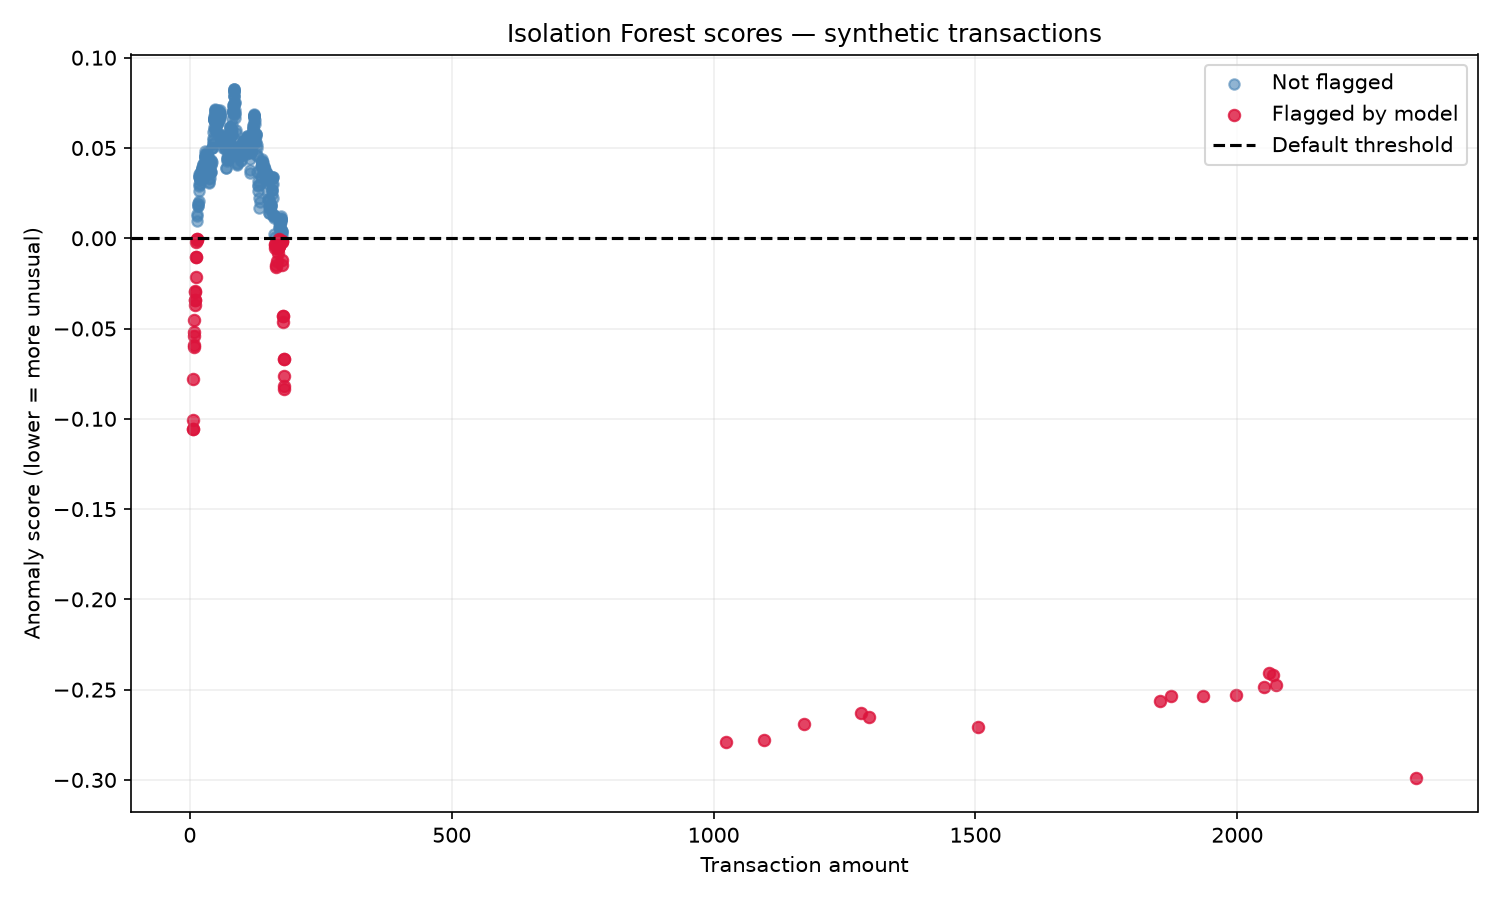
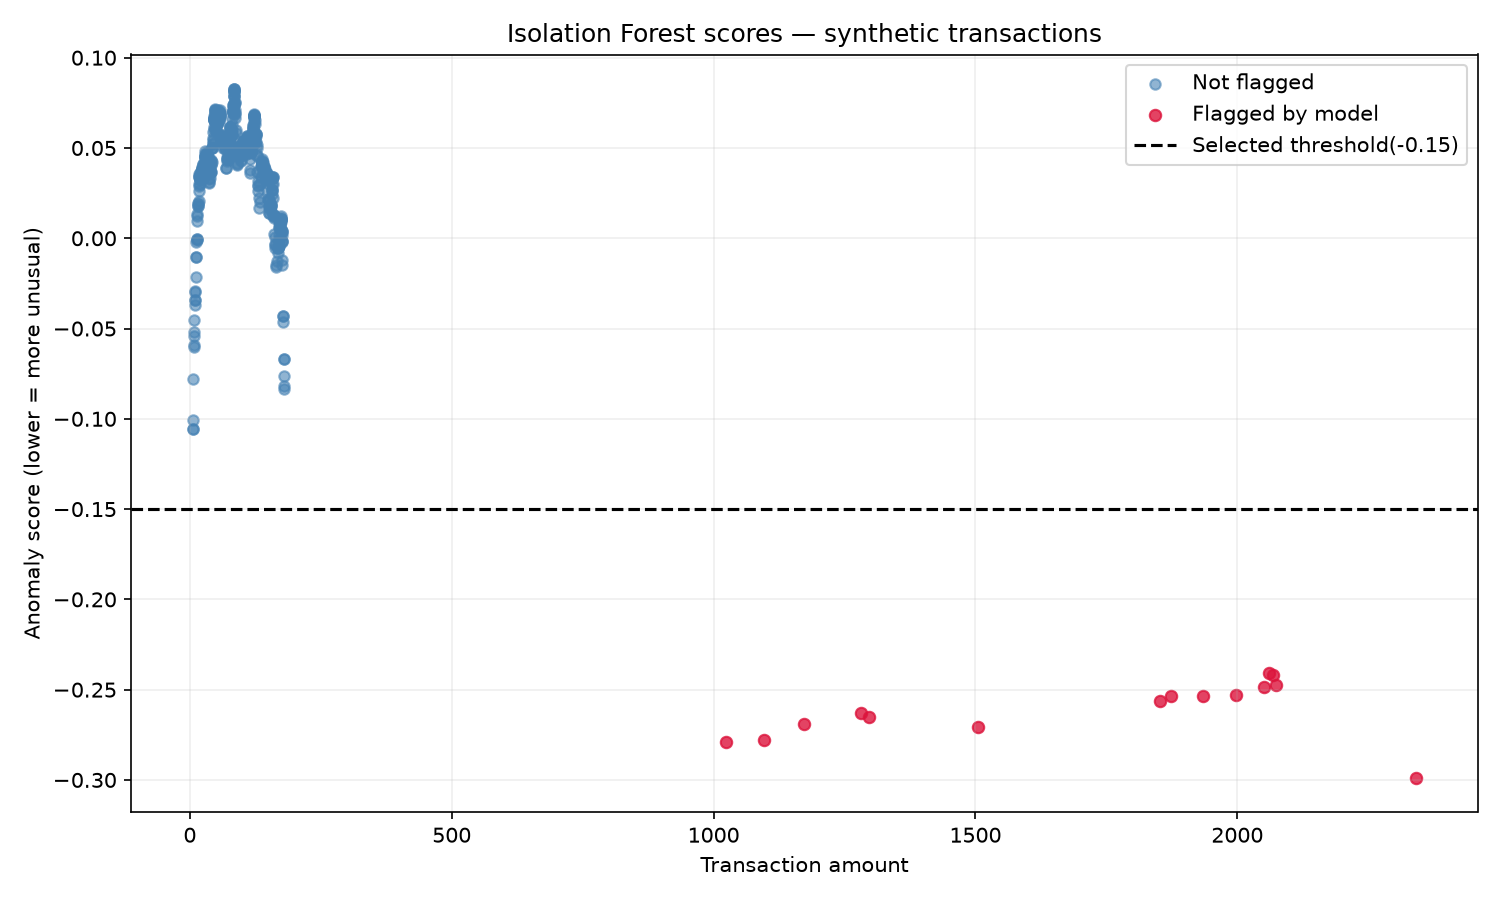
Apply anomaly threshold and record dependencies

diff --git a/src/detect_ml_anomalies.py b/src/detect_ml_anomalies.py
@@ -11,6 +11,7 @@ from sklearn.ensemble import IsolationForest
 PROJECT_ROOT = Path(__file__).resolve().parent.parent
 DATABASE_PATH = PROJECT_ROOT / "data/transactions.db"
 OUTPUT_PATH = PROJECT_ROOT / "outputs/ml_anomaly_scores.png"
+THRESHOLD = -0.15
 QUERY = """
     SELECT transaction_id, category, country, amount
     FROM transactions
@@ -35,8 +36,11 @@ def main() -> None:
         random_state=42,
     )
 
-    data["prediction"] = model.fit_predict(features)
+    model.fit(features)
     data["anomaly_score"] = model.decision_function(features)
+
+    data["prediction"] = 1
+    data.loc[data["anomaly_score"] < THRESHOLD, "prediction"] = -1
 
     anomalies = data[data["prediction"] == -1]
     anomalies = anomalies.sort_values("anomaly_score")
@@ -64,10 +68,10 @@ def main() -> None:
     )
 
     ax.axhline(
-        y=0,
+        y=THRESHOLD,
         color="black",
         linestyle="--",
-        label="Default threshold",
+        label=f"Selected threshold({THRESHOLD})",
     )
 
     ax.set_title("Isolation Forest scores — synthetic transactions")
